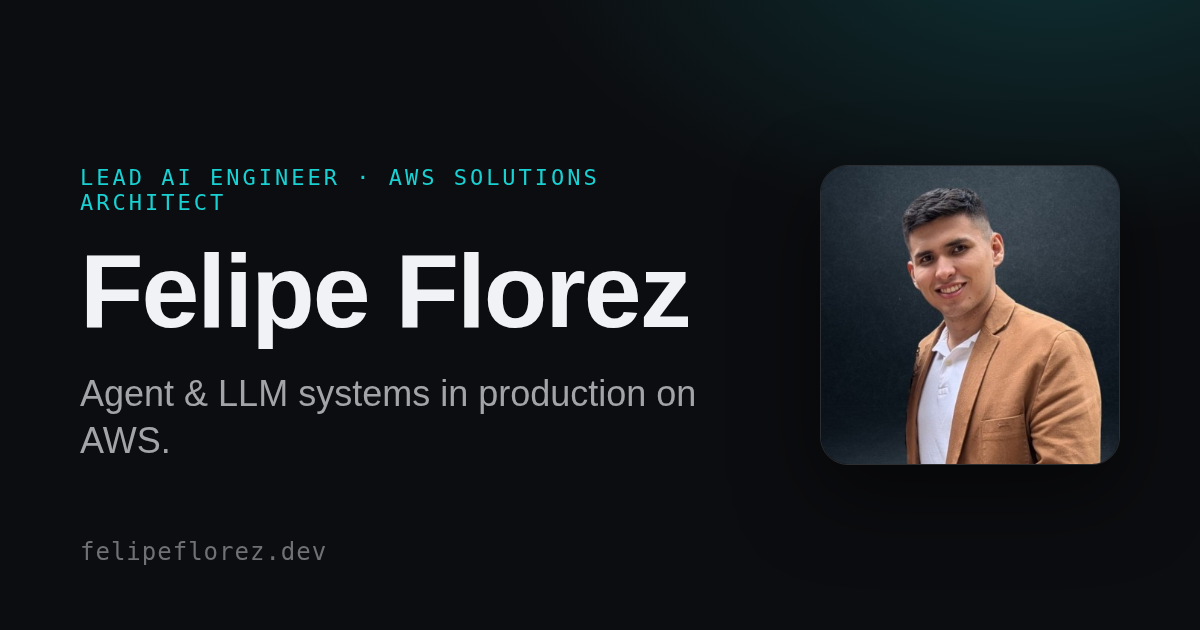
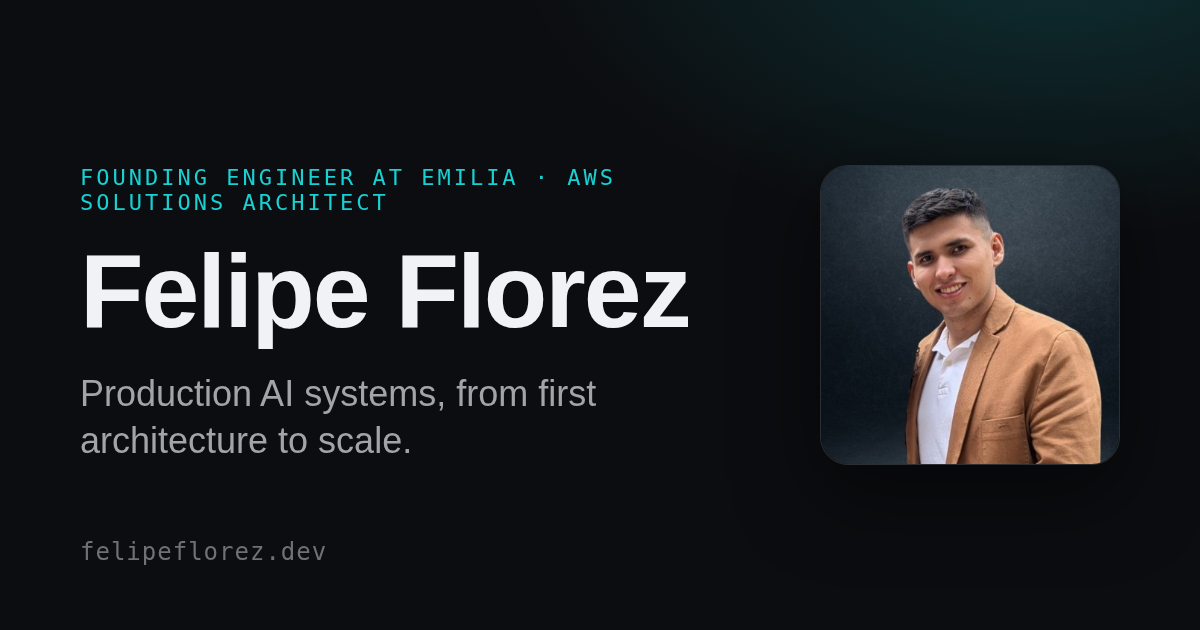
feat(profile): add founding engineer role at Emilia

Changed region(s): [[0.0617, 0.6032, 0.5858, 0.7238], [0.0617, 0.2714, 0.5242, 0.3317]]

diff --git a/src/i18n/ui.ts b/src/i18n/ui.ts
@@ -11,19 +11,19 @@ export const languages = {
 
 export const ui = {
   en: {
-    "meta.title": "Felipe Florez, AI Engineer",
+    "meta.title": "Felipe Florez, Founding Engineer at Emilia",
     "meta.description":
-      "Lead AI Engineer shipping agent & LLM systems in production on AWS: orchestration, RAG, eval/observability, cost-aware model routing, MCP, guardrails.",
+      "Founding Engineer at Emilia building production AI products across architecture, integrations, automation, infrastructure, agent systems, and LLMs.",
 
     // Header
     "nav.cv": "CV",
     "nav.skipToContent": "Skip to content",
 
     // Hero
-    "hero.eyebrow": "Lead AI Engineer · AWS Solutions Architect · Medellín, CO",
+    "hero.eyebrow": "Founding Engineer at Emilia · AWS Solutions Architect · Medellín, CO",
     "hero.heading": "I build agent & LLM systems that run in production.",
     "hero.subcopy":
-      "I design orchestration, RAG, and secure tool execution on AWS, with the evaluation, observability, and cost control that keep them reliable at scale.",
+      "At Emilia, I build AI products end to end—from architecture and integrations to automation and infrastructure—with speed, scalability, reliability, and user experience in mind.",
     "hero.cta.primary": "Get in touch",
     "hero.cta.secondary": "Download CV",
     "hero.portraitAlt": "Portrait of Felipe Florez",
@@ -35,7 +35,7 @@ export const ui = {
     "metric.aws": "AWS certifications",
 
     // Footer
-    "footer.role": "Lead AI Engineer · AWS Solutions Architect",
+    "footer.role": "Founding Engineer at Emilia · AWS Solutions Architect",
     "footer.builtWith": "Built with Astro + Spec-Driven Development.",
     "footer.email": "Email",
     "footer.linkedin": "LinkedIn",
@@ -50,9 +50,9 @@ export const ui = {
     "about.eyebrow": "About",
     "about.heading": "I turn LLM prototypes into systems teams can rely on.",
     "about.p1":
-      "I'm a Lead AI Engineer in Medellín, shipping production LLM and agent systems on AWS and helping enterprise engineering teams adopt AI. My work lives where prototypes usually break: orchestration, RAG, secure tool execution, and the evaluation, observability, and cost control that keep them dependable in multi-tenant production.",
+      "I'm a Founding Engineer at Emilia in Medellín, helping build the product and technical foundation from the ground up. I work across product engineering, architecture, APIs, integrations, automation, and infrastructure to take reliable AI systems into production.",
     "about.p2":
-      "I came up through electronic engineering and IoT, owning hardware-to-production, which taught me to design for reliability and real constraints rather than demos. Today I build with Spec-Driven Development and AI-assisted workflows (Claude Code, Cursor, Devin), so the systems I ship stay as legible as they are capable.",
+      "I work closely with the founders on product strategy, technical priorities, and execution. My electronic engineering and IoT background taught me to design for real-world constraints; today I pair that reliability mindset with Spec-Driven Development and AI-assisted workflows to move fast without making the system opaque.",
 
     // Skills
     "skills.eyebrow": "Capabilities",
@@ -104,19 +104,19 @@ export const ui = {
     "cert.degree": "B.S. in Electronic Engineering",
   },
   es: {
-    "meta.title": "Felipe Florez, Ingeniero de IA",
+    "meta.title": "Felipe Florez, Founding Engineer en Emilia",
     "meta.description":
-      "Lead AI Engineer: sistemas de agentes y LLM en producción sobre AWS, con orquestación, RAG, evaluación/observabilidad, ruteo de modelos por costo, MCP y guardrails.",
+      "Founding Engineer en Emilia: productos de IA en producción, arquitectura, integraciones, automatización, infraestructura, sistemas de agentes y LLM.",
 
     // Header
     "nav.cv": "CV",
     "nav.skipToContent": "Saltar al contenido",
 
     // Hero
-    "hero.eyebrow": "Lead AI Engineer · Arquitecto de Soluciones AWS · Medellín, CO",
+    "hero.eyebrow": "Founding Engineer en Emilia · Arquitecto de Soluciones AWS · Medellín, CO",
     "hero.heading": "Construyo sistemas de agentes y LLM que viven en producción.",
     "hero.subcopy":
-      "Diseño orquestación, RAG y ejecución segura de herramientas en AWS, con la evaluación, observabilidad y control de costos que los mantienen fiables a escala.",
+      "En Emilia construyo productos de IA end-to-end: desde arquitectura e integraciones hasta automatización e infraestructura, con foco en velocidad, escalabilidad, fiabilidad y experiencia de usuario.",
     "hero.cta.primary": "Hablemos",
     "hero.cta.secondary": "Descargar CV",
     "hero.portraitAlt": "Retrato de Felipe Florez",
@@ -128,7 +128,7 @@ export const ui = {
     "metric.aws": "Certificaciones AWS",
 
     // Footer
-    "footer.role": "Lead AI Engineer · Arquitecto de Soluciones AWS",
+    "footer.role": "Founding Engineer en Emilia · Arquitecto de Soluciones AWS",
     "footer.builtWith": "Hecho con Astro + Spec-Driven Development.",
     "footer.email": "Correo",
     "footer.linkedin": "LinkedIn",
@@ -144,9 +144,9 @@ export const ui = {
     "about.heading":
       "Convierto prototipos de LLM en sistemas en los que los equipos confían.",
     "about.p1":
-      "Soy Lead AI Engineer en Medellín. Llevo a producción sistemas de LLM y agentes sobre AWS y ayudo a equipos de ingeniería a adoptar IA. Mi trabajo está donde los prototipos suelen romperse: orquestación, RAG, ejecución segura de herramientas, y la evaluación, observabilidad y control de costos que los mantienen fiables en producción multi-tenant.",
+      "Soy Founding Engineer en Emilia, en Medellín, y ayudo a construir desde cero las bases técnicas y de producto. Trabajo en ingeniería de producto, arquitectura, APIs, integraciones, automatización e infraestructura para llevar sistemas de IA fiables a producción.",
     "about.p2":
-      "Vengo de la ingeniería electrónica y el IoT, donde fui dueño del ciclo completo de hardware a producción; eso me enseñó a diseñar para la fiabilidad y las restricciones reales, no para el demo. Hoy construyo con Spec-Driven Development y flujos asistidos por IA (Claude Code, Cursor, Devin), para que los sistemas que entrego sean tan legibles como capaces.",
+      "Trabajo de cerca con los fundadores en estrategia de producto, prioridades técnicas y ejecución. Mi experiencia en ingeniería electrónica e IoT me enseñó a diseñar para restricciones reales; hoy combino esa mentalidad con Spec-Driven Development y flujos asistidos por IA para avanzar rápido sin volver opaco el sistema.",
 
     // Skills
     "skills.eyebrow": "Capacidades",

diff --git a/src/data/experience.ts b/src/data/experience.ts
@@ -1,6 +1,6 @@
 /**
  * Professional experience for the Experience section. Localized fields carry EN/ES.
- * Source: CV. Newest-first. Keep highlights concise and metric-led.
+ * Source: CV + LinkedIn. Newest-first. Keep highlights concise and metric-led.
  */
 import type { Localized } from "../i18n/utils";
 
@@ -14,9 +14,28 @@ export interface ExperienceEntry {
 
 export const experience: ExperienceEntry[] = [
   {
+    company: "Emilia",
+    role: { en: "Founding Engineer", es: "Founding Engineer" },
+    period: { en: "Aug 2026 – Present", es: "Ago 2026 – Actualidad" },
+    location: {
+      en: "Remote · Medellín, Colombia",
+      es: "Remoto · Medellín, Colombia",
+    },
+    highlights: {
+      en: [
+        "Build the product and technical foundation for real-time restaurant AI, spanning end-to-end features, architecture, APIs, integrations, automation, and infrastructure.",
+        "Partner with the founders on product strategy, technical priorities, and execution, balancing speed with scalability, reliability, and user experience.",
+      ],
+      es: [
+        "Construyo las bases técnicas y de producto de IA en tiempo real para restaurantes: funcionalidades end-to-end, arquitectura, APIs, integraciones, automatización e infraestructura.",
+        "Trabajo con los fundadores en estrategia de producto, prioridades técnicas y ejecución, equilibrando velocidad con escalabilidad, fiabilidad y experiencia de usuario.",
+      ],
+    },
+  },
+  {
     company: "SoftServe",
     role: { en: "R&D Engineer, AI", es: "Ingeniero de I+D, IA" },
-    period: { en: "Feb 2026 – Present", es: "Feb 2026 – Actualidad" },
+    period: { en: "Feb 2026 – Aug 2026", es: "Feb 2026 – Ago 2026" },
     location: { en: "Remote", es: "Remoto" },
     highlights: {
       en: [

diff --git a/specs/landing.md b/specs/landing.md
@@ -5,12 +5,13 @@
 > `specs/sections/<name>.md` (created when we build it), using `_template.md`.
 
 - **Status:** in progress — Hero, Metrics, About, Skills, Experience, Projects, Certifications built; How-I-build / Content / Contact planned
-- **Last updated:** 2026-06-24
+- **Last updated:** 2026-09-08
 
 ## Goal
 
-A single, fast, dark-editorial page that, in one scroll, makes a recruiter trust Felipe's
-production AI experience and makes an AI engineer want to follow the weekly builds.
+A single, fast, dark-editorial page that, in one scroll, establishes Felipe as a
+Founding Engineer building production AI products and makes an AI engineer want to
+follow the weekly builds.
 
 ## Audiences
 
@@ -23,7 +24,7 @@ production AI experience and makes an AI engineer want to follow the weekly buil
 | --- | -------------------- | ---------------------------------------------------------------------- | ---------------- | -------- | ---- |
 | 1   | **Hero**             | Who Felipe is in one line + clear CTA; sets the dark-precision tone     | both             | ✅ built | `specs/sections/hero.md` |
 | 2   | **Metrics / proof**  | Hard numbers bar (resolution uplift, cost, years, AWS certs)           | recruiters       | ✅ built | `specs/sections/hero.md` |
-| 3   | **About**            | Short narrative: AI engineer shipping agent/LLM systems on AWS          | both             | ✅ built | `specs/sections/about.md` |
+| 3   | **About**            | Short narrative: Founding Engineer shipping production AI systems       | both             | ✅ built | `specs/sections/about.md` |
 | 4   | **Skills (grouped)** | Capabilities by group: RAG, orchestration, eval/observability, routing, MCP, guardrails, AWS, infra | both | ✅ built | `specs/sections/skills.md` |
 | 5   | **Experience**       | Roles & impact, senior framing                                         | recruiters       | ✅ built | `specs/sections/experience.md` |
 | 6   | **Projects (bento)** | Filterable bento grid of weekend builds; the signature section         | both             | ✅ built | `specs/sections/projects.md` |

diff --git a/specs/sections/experience.md b/specs/sections/experience.md
@@ -1,6 +1,6 @@
 # Spec: Experience
 
-- **Type:** section · **Status:** built · **Last updated:** 2026-06-24
+- **Type:** section · **Status:** built · **Last updated:** 2026-09-08
 - **Related:** specs/landing.md · src/components/Experience.astro · src/data/experience.ts
 
 ## Goal
@@ -9,11 +9,12 @@ Show a credible, senior trajectory with metric-led impact — not a duties list.
 ## Audience & intent
 Recruiter: scope, seniority, measurable outcomes. Community: real production work.
 
-## Content (from CV, data-driven in `src/data/experience.ts`, newest-first)
-SoftServe (R&D Engineer, AI) · NOUSWARE (AI Engineering Lead — 57→80%, ~40% cost) ·
-Ivanti (Integration Engineer — 18+ workflows, ~35% triage) · Ivanti (Support L2 — 80+
-incidents, MTTR ~28%) · Floes Connecting (Founder, IoT). Each: role, company, period,
-location, 2 metric-led highlights. All localized EN/ES.
+## Content (from CV + LinkedIn, data-driven in `src/data/experience.ts`, newest-first)
+Emilia (Founding Engineer — product + technical foundation) · SoftServe (R&D Engineer,
+AI) · NOUSWARE (AI Engineering Lead — 57→80%, ~40% cost) · Ivanti (Integration Engineer
+— 18+ workflows, ~35% triage) · Ivanti (Support L2 — 80+ incidents, MTTR ~28%) · Floes
+Connecting (Founder, IoT). Each: role, company, period, location, 2 concise highlights.
+All localized EN/ES.
 
 ## Layout & UX
 List/timeline with a top border per row; two columns on `lg` (period/location left,

diff --git a/specs/sections/about.md b/specs/sections/about.md
@@ -1,19 +1,21 @@
 # Spec: About
 
-- **Type:** section · **Status:** built · **Last updated:** 2026-06-24
+- **Type:** section · **Status:** built · **Last updated:** 2026-09-08
 - **Related:** specs/landing.md · src/components/About.astro
 
 ## Goal
-A short, senior narrative that frames Felipe: ships production LLM/agent systems on AWS,
-came from electronic engineering / IoT, builds with SDD. Earns trust without hype.
+A short, senior narrative that frames Felipe: Founding Engineer at Emilia, ships
+production AI systems, came from electronic engineering / IoT, and builds with SDD.
+Earns trust without hype.
 
 ## Audience & intent
 Both. Recruiter: depth + reliability mindset. Community: process + craft.
 
-## Content (from CV profile)
+## Content (from CV + LinkedIn profile)
 - Eyebrow `About`; heading "I turn LLM prototypes into systems teams can rely on."
-- Two paragraphs (`about.p1`, `about.p2` in `src/i18n/ui.ts`): production AI on AWS +
-  the reliability lens from a hardware/IoT background and SDD/AI-assisted workflow.
+- Two paragraphs (`about.p1`, `about.p2` in `src/i18n/ui.ts`): current Founding Engineer
+  scope at Emilia + the reliability lens from a hardware/IoT background and
+  SDD/AI-assisted workflow.
 - Neutral tone — no job-seeking signal.
 
 ## Layout & UX

diff --git a/specs/sections/hero.md b/specs/sections/hero.md
@@ -2,7 +2,7 @@
 
 - **Type:** section
 - **Status:** built
-- **Last updated:** 2026-06-24
+- **Last updated:** 2026-09-08
 - **Related:** specs/landing.md · src/components/Hero.astro · src/components/MetricsBar.astro
 
 ## 1. Goal
@@ -19,11 +19,11 @@ certified." Community: "this person builds real agent/LLM systems — worth foll
 ## 3. Content (from CV — real data)
 
 **Hero**
-- Eyebrow: `Lead AI Engineer · AWS Solutions Architect · Medellín, CO`
+- Eyebrow: `Founding Engineer at Emilia · AWS Solutions Architect · Medellín, CO`
 - Heading (EN): "I build agent & LLM systems that run in production."
 - Heading (ES): "Construyo sistemas de agentes y LLM que viven en producción."
-- Subcopy: orchestration, RAG, secure tool execution on AWS + eval/observability/cost
-  control at scale.
+- Subcopy: at Emilia, end-to-end AI product work spanning architecture, integrations,
+  automation, and infrastructure, with speed, scalability, reliability, and UX in mind.
 - CTAs: primary "Get in touch" → **LinkedIn** (neutral/professional, low-signal — not a
   "hire me" mailto), secondary "Download CV" (`/felipe-florez-cv.pdf`). Email stays in
   the footer for direct contact. Copy is deliberately neutral — no "open to work" wording

diff --git a/AGENTS.md b/AGENTS.md
@@ -6,10 +6,13 @@
 
 ## Purpose & positioning
 
-`felipeflorez.dev` is the personal site + portfolio of **Felipe Florez, AI Engineer**.
+`felipeflorez.dev` is the personal site + portfolio of **Felipe Florez, Founding
+Engineer at Emilia**.
 
-- **What Felipe does:** designs and ships agent / LLM systems in production on AWS —
-  RAG, orchestration, eval & observability, cost-aware model routing, MCP, guardrails.
+- **What Felipe does:** builds production AI products across product engineering,
+  architecture, integrations, automation, and infrastructure, with a background in
+  agent / LLM systems on AWS — RAG, orchestration, eval & observability, cost-aware
+  model routing, MCP, and guardrails.
 - **Two audiences:** (1) recruiters & enterprise clients, (2) the AI-engineering
   community.
 - **The hook:** the site is a living build log. Every weekend a new project ships,

diff --git a/README.md b/README.md
@@ -1,8 +1,8 @@
 # felipeflorez.dev
 
-Personal site + portfolio of **Felipe Florez**, AI Engineer — agent & LLM systems in
-production on AWS (RAG, orchestration, eval/observability, cost-aware model routing,
-MCP, guardrails).
+Personal site + portfolio of **Felipe Florez**, Founding Engineer at **Emilia**. He
+builds production AI products across product engineering, architecture, integrations,
+automation, and infrastructure, with a background in agent & LLM systems on AWS.
 
 The site doubles as a build log: every weekend a new project ships, built with
 **Spec-Driven Development (SDD)**, each with a live demo at a subdomain
